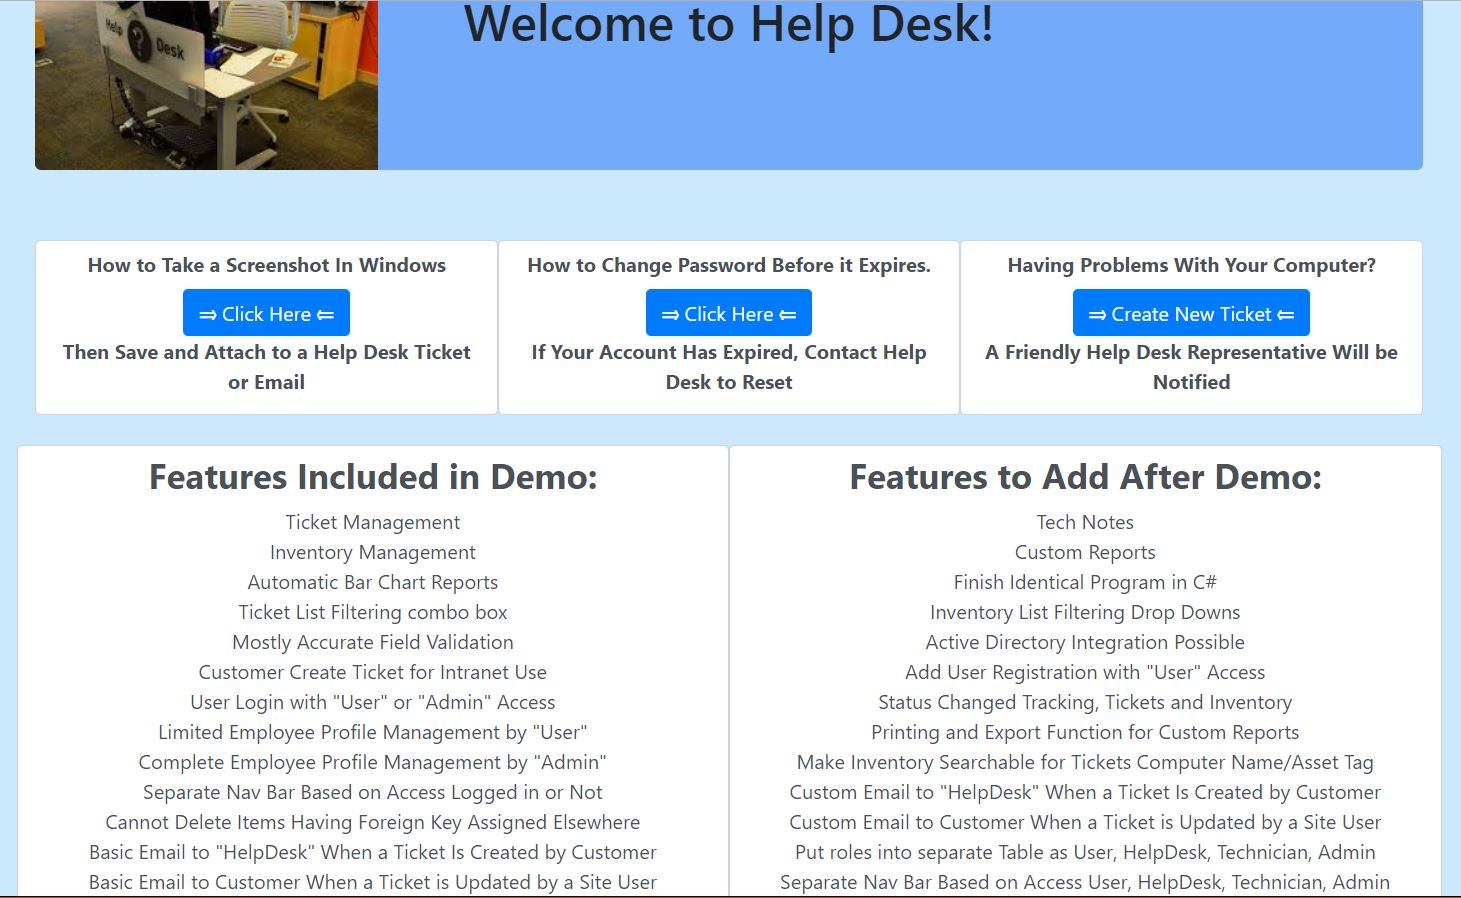
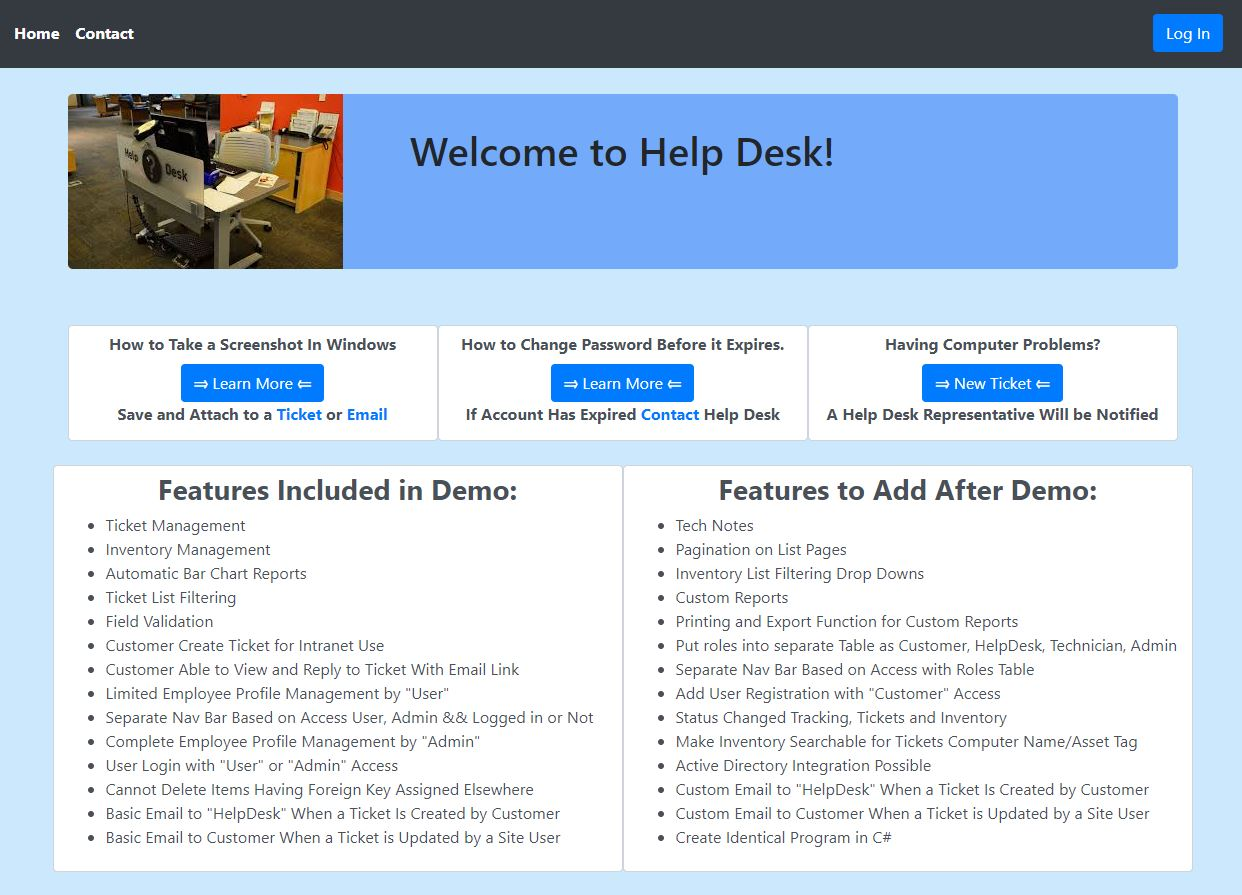
Update README.md

diff --git a/README.md b/README.md
@@ -46,34 +46,34 @@ Other Images Can be Found in the "/public/images" Folder
  * Ticket Management
  * Inventory Management
  * Automatic Bar Chart Reports
- * Ticket List Filtering Drop Downs
- * Mostly Accurate Field Validation
+ * Ticket List Filtering
+ * Field Validation
  * Customer Create Ticket for Intranet Use
- * User Login with "User" or "Admin" Access
- * Limited Employee Profile Management by "User"
- * Complete Employee Profile Management by "Admin"
  * Customer Able to View and Reply to Ticket With Email Link
+ * Limited Employee Profile Management by "User"
+ * Separate Nav Bar Based on Access User, Admin && Logged in or Not
+ * Complete Employee Profile Management by "Admin"
+ * User Login with "User" or "Admin" Access
  * Cannot Delete Items Having Foreign Key Assigned Elsewhere
  * Basic Email to "HelpDesk" When a Ticket Is Created by Customer
  * Basic Email to Customer When a Ticket is Updated by a Site User
- * Separate Nav Bar Based on Access User, Admin && Logged in or Not
 
  # Features to Add After Demo:
 
  * Tech Notes
- * Custom Reports
  * Pagination on List Pages
- * Finish Identical Program in C#
  * Inventory List Filtering Drop Downs
- * Active Directory Integration Possible
- * Add User Registration with "User" Access
- * Status Changed Tracking, Tickets and Inventory
+ * Custom Reports
  * Printing and Export Function for Custom Reports
+ * Put roles into separate Table as Customer, HelpDesk, Technician, Admin
+ * Separate Nav Bar Based on Access with Roles Table
+ * Add User Registration with "Customer" Access
+ * Status Changed Tracking, Tickets and Inventory
  * Make Inventory Searchable for Tickets Computer Name/Asset Tag
+ * Active Directory Integration Possible
  * Custom Email to "HelpDesk" When a Ticket Is Created by Customer
  * Custom Email to Customer When a Ticket is Updated by a Site User
- * Put roles into separate Table as Customer, HelpDesk, Technician, Admin
- * Separate Nav Bar Based on Access Customer, HelpDesk, Technician, Admin
+ * Create Identical Program in C#
 
 
  # In the db Folder is a ReadMe.txt File With Vital Information
